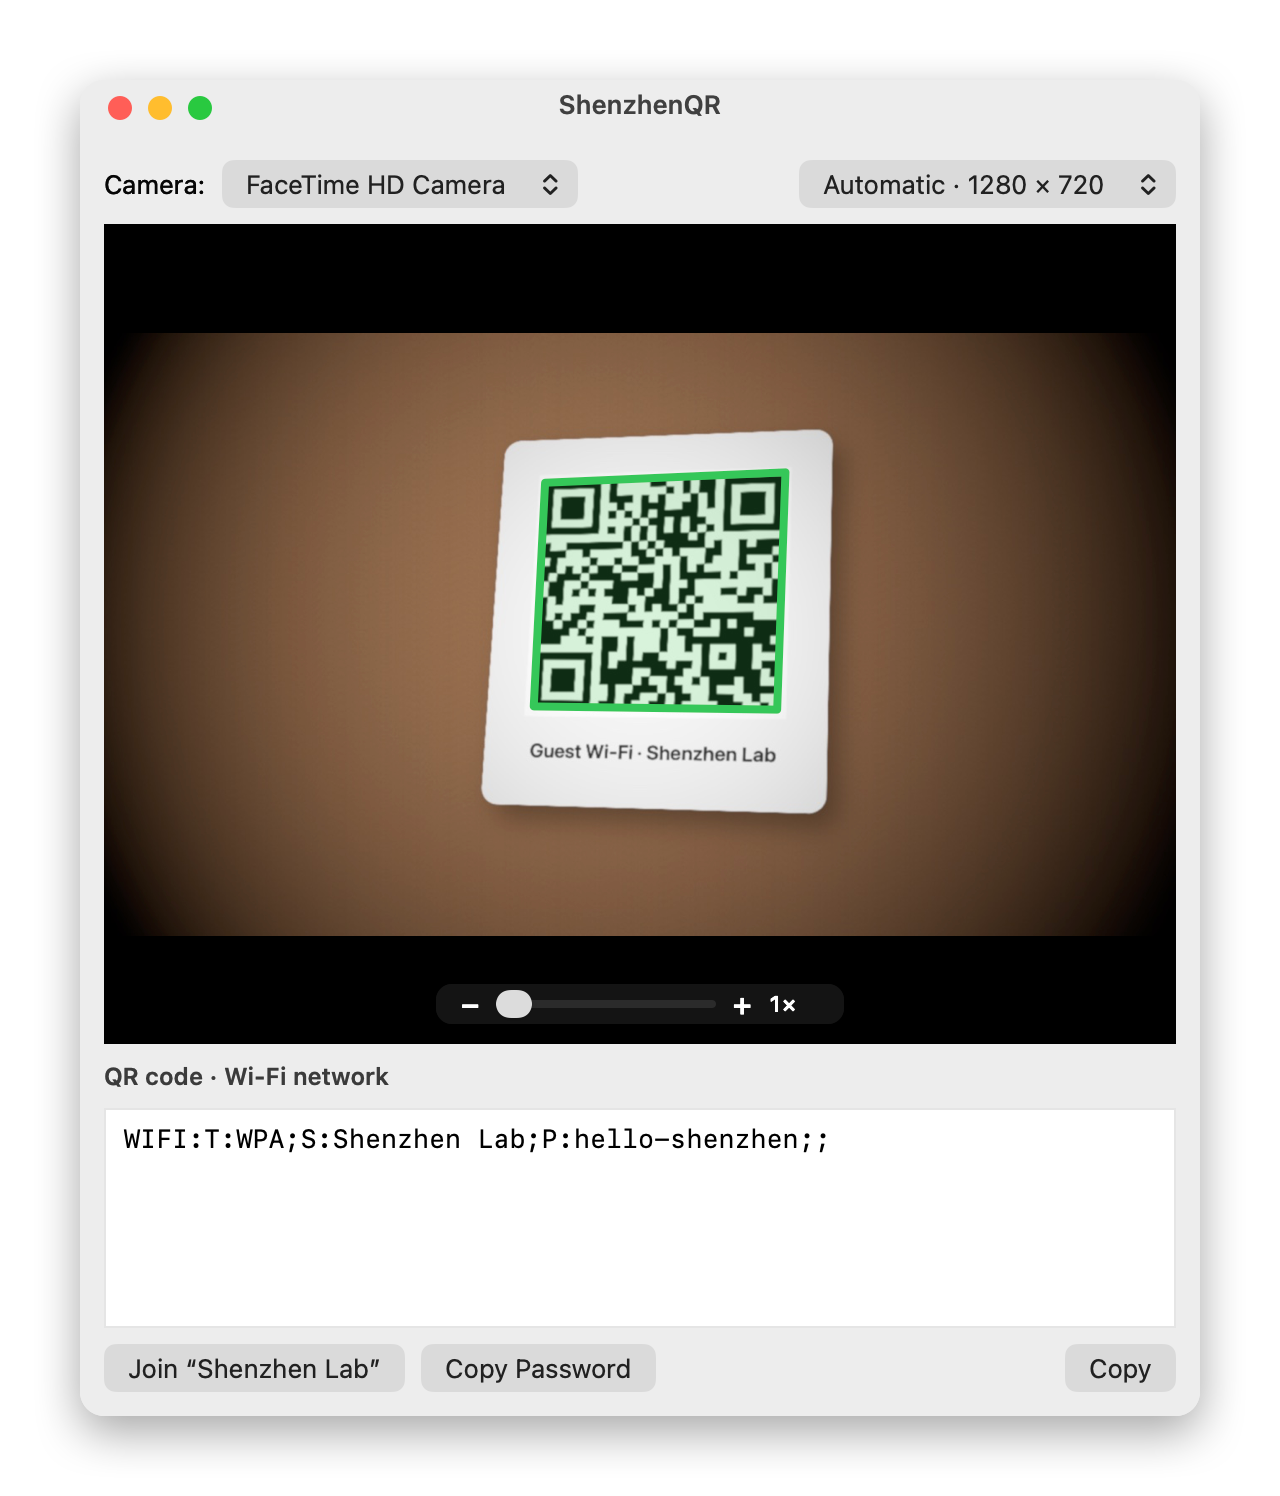
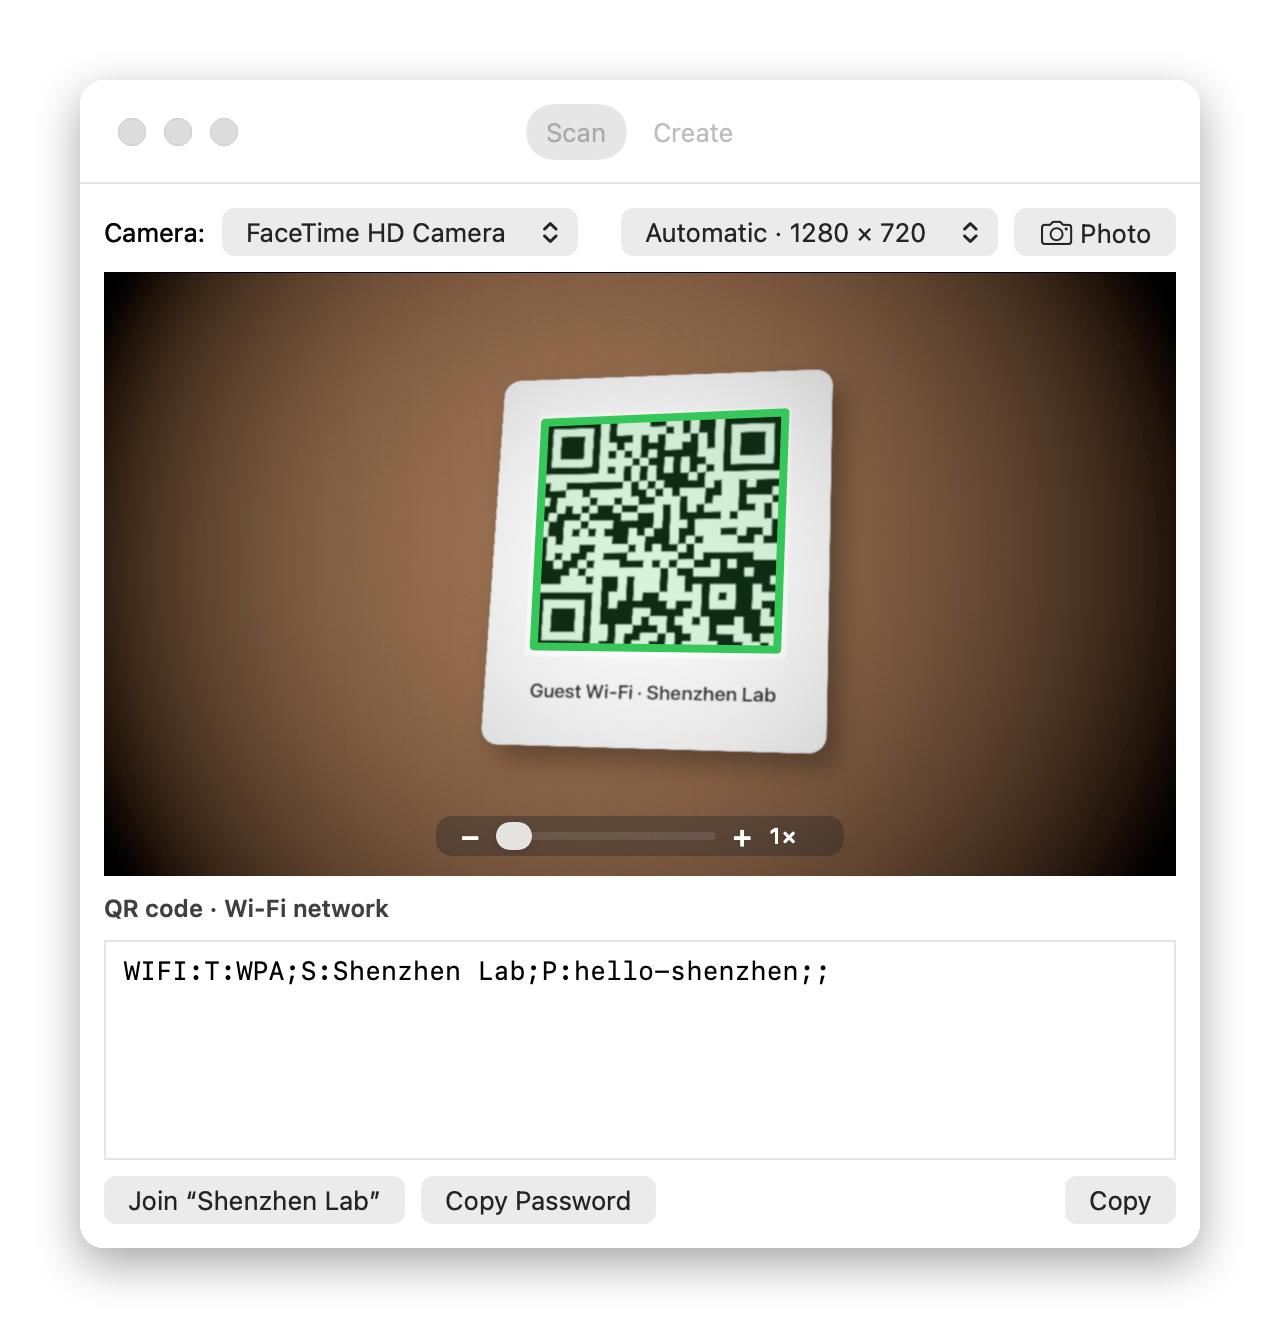
README: Scan, Create and Settings sections, with a Create screenshot
- The screenshots show the whole window, top bar and tabs included, at the height the app gives it for the picture.
- --screenshot create opens Advanced only when asked; the Create preview shrinks to the window.

diff --git a/ShenzhenQR.swift b/ShenzhenQR.swift
@@ -866,8 +866,8 @@ final class AppDelegate: NSObject, NSApplicationDelegate, NSTextViewDelegate, NS
 
     /// The window's height set so the camera picture fills the preview, without black bars; the width and the top
     /// edge stay where they are.
-    func fitToPicture(_ size: CGSize) {
-        guard !offscreen, size.width > 0, !scanView.isHidden, let window, !window.inLiveResize else { return }
+    func fitToPicture(_ size: CGSize, screenshot: Bool = false) {
+        guard !offscreen || screenshot, size.width > 0, !scanView.isHidden, let window, !window.inLiveResize else { return }
         window.contentView?.layoutSubtreeIfNeeded()
         let want = (preview.frame.width * size.height / size.width).rounded()
         let delta = want - preview.frame.height
@@ -919,10 +919,13 @@ final class AppDelegate: NSObject, NSApplicationDelegate, NSTextViewDelegate, NS
         setStatus("")
         let content = window.contentView!
         content.layoutSubtreeIfNeeded()
+        fitToPicture(ci.extent.size, screenshot: true)        // as the app does when the camera starts
+        content.layoutSubtreeIfNeeded()
         preview.layout()
-        content.displayIfNeeded()
-        let rep = content.bitmapImageRepForCachingDisplay(in: content.bounds)!
-        content.cacheDisplay(in: content.bounds, to: rep)
+        let frame = content.superview ?? content          // the whole window, its top bar with the tabs included
+        frame.layoutSubtreeIfNeeded(); frame.displayIfNeeded()
+        let rep = frame.bitmapImageRepForCachingDisplay(in: frame.bounds)!
+        frame.cacheDisplay(in: frame.bounds, to: rep)
         try! rep.representation(using: .png, properties: [:])!.write(to: URL(fileURLWithPath: out))
     }
 
@@ -1899,7 +1902,7 @@ enum CLI {
                 d.buildWindow(); d.window.setContentSize(NSSize(width: 560, height: 640))
                 d.showTab(1)
                 if args.count > 4 {
-                    d.createView.advancedButton.state = .on; d.createView.toggleAdvanced()
+                    if args.count > 6, args[6] == "advanced" { d.createView.advancedButton.state = .on; d.createView.toggleAdvanced() }
                     if let k = CodeKind(rawValue: args[4]) { d.createView.kindMenu.selectItem(at: CodeKind.allCases.firstIndex(of: k)!); d.createView.kindChanged() }
                     if args.count > 5, args[5].hasPrefix("wifi=") {
                         d.createView.contentMode.selectedSegment = 1; d.createView.modeChanged()
@@ -1907,7 +1910,7 @@ enum CLI {
                         d.createView.changed()
                     } else if args.count > 5 { d.createView.textView.string = args[5]; d.createView.changed() }
                 }
-                let view = d.window.contentView!
+                let view = d.window.contentView!.superview ?? d.window.contentView!
                 view.layoutSubtreeIfNeeded(); view.displayIfNeeded()
                 let rep = view.bitmapImageRepForCachingDisplay(in: view.bounds)!
                 view.cacheDisplay(in: view.bounds, to: rep)
@@ -2622,8 +2625,11 @@ final class CreateView: NSView, NSTextViewDelegate, NSTextFieldDelegate {
             basic.widthAnchor.constraint(equalTo: stack.widthAnchor, constant: -24),
             preview.heightAnchor.constraint(greaterThanOrEqualToConstant: 160),
         ])
-        preview.setContentHuggingPriority(.defaultLow, for: .vertical)
-        preview.setContentCompressionResistancePriority(.defaultLow, for: .vertical)
+        // The preview shrinks to the window: left alone it asks for the PNG's full size, which made the window wide.
+        for o in [NSLayoutConstraint.Orientation.horizontal, .vertical] {
+            preview.setContentHuggingPriority(.defaultLow, for: o)
+            preview.setContentCompressionResistancePriority(.init(1), for: o)
+        }
         kindChanged()
     }
     required init?(coder: NSCoder) { fatalError() }

diff --git a/README.md b/README.md
@@ -6,19 +6,30 @@ A tiny Mac app that reads QR codes and barcodes from any camera (the built-in on
 
 Apple Silicon · macOS 14+ · Signed and notarized
 
+## Scan
+
 ![ShenzhenQR reading a Wi-Fi QR code](docs/screenshot.png)
 
-- **Any camera.** Pick it from the menu at the top; ShenzhenQR remembers your choice and notices cameras being plugged in or removed. The menu beside it lists the picture sizes that camera has.
-- **Zoom for small codes.** Double-click the picture to zoom 2.5× into the middle, and again to zoom out, or use the zoom bar at the bottom of the picture. Only the middle is read then, closer up, so smaller codes are found.
-- **Every common code.** QR, Micro QR, Aztec, Data Matrix, PDF417, EAN and UPC, Code 128, 39 and 93, ITF, Codabar and GS1 DataBar.
-- **Photo and text.** **Photo** freezes the picture and reads the text in it, Chinese included: select text right on the photo, as in Preview, or edit all of it in the field below. Codes on the photo are outlined too; click one to put it in the field. **Back to Camera** returns.
-- **Blurred barcodes.** On a photo or a picture, when a barcode's bars are too blurred to read, its number is read from the digits printed under it, and kept only if its check digit is right (dashed outline). A camera can't focus up close: hold the code farther away and zoom in instead.
-- **See where it is.** A green outline marks each code where it was read. With several in view, click one to use it.
-- **Settings** (⌘,): the camera resolution, and how many processor cores read frames at the same time (4 unless you change it).
+- **Any camera.** Pick it from the menu at the top: the built-in one, a USB webcam, a virtual camera or an iPhone. ShenzhenQR remembers your choice and notices cameras being plugged in or removed. The menu beside it lists the picture sizes that camera has, and the window fits the camera's picture.
+- **Every common code.** QR, Micro QR, Aztec, Data Matrix, PDF417, EAN and UPC, Code 128, 39 and 93, ITF, Codabar and GS1 DataBar. A green outline marks each one; with several in view, click one to use it.
 - **The text, ready to use.** What the code holds appears in a field you can select and edit. **Copy** puts it on the clipboard.
 - **The right next step.** Depending on the code: **Join** a Wi-Fi network (or copy its password), **Open in Browser**, **Add to Contacts**, **Add to Calendar**, **Write Email**, **Call**, **Send Message** or **Show in Maps**. Buttons follow your edits.
-- **Make codes.** The **Create** tab at the top makes a QR code, Data Matrix, Aztec code, PDF417, Code 128, EAN-13, UPC-A or EAN-8 as a crisp PNG, saved in Downloads unless you choose another folder. Type and content are all it needs; **Advanced** has error correction, quiet zone, Data Matrix shape, bar height, the digits under EAN and UPC barcodes, colors, a transparent background and the file name, each with the standard value until you change it. For a QR code, **Wi-Fi network** makes a code that phones scan to join a network: type its name and password, or **Use Current Wi-Fi** to take this Mac's (macOS asks for Location, as it counts Wi-Fi names as location, then for your Mac's password before sharing the Wi-Fi password).
-- **Updates.** ShenzhenQR checks for a new version once a day and asks before installing it; **Check for Updates…** in the app menu checks now.
+- **Zoom for small codes.** Double-click the picture to zoom 2.5× into the middle, and again to zoom out, or use the zoom bar at the bottom of the picture. Only the middle is read then, closer up, so smaller codes are found.
+- **Photo and text.** **Photo** freezes the picture and reads the text in it, Chinese included: select text right on the photo, as in Preview, or edit all of it in the field below. Codes on the photo are outlined too; click one to put it in the field.
+- **Blurred barcodes.** On a photo or a picture, when a barcode's bars are too blurred to read, its number is read from the digits printed under it, and kept only if its check digit is right (dashed outline). A camera can't focus up close: hold the code farther away and zoom in instead.
+
+## Create
+
+![ShenzhenQR making a Wi-Fi QR code](docs/screenshot-create.png)
+
+- **Codes as PNG.** A QR code, Data Matrix, Aztec code, PDF417, Code 128, EAN-13, UPC-A or EAN-8, crisp at the width you ask for, saved in Downloads unless you choose another folder. **Copy Image** puts it on the clipboard.
+- **Wi-Fi codes.** For a QR code, **Wi-Fi network** makes a code that phones scan to join a network. Type its name and password, or click **Use Current Wi-Fi** to take this Mac's: macOS asks once for Location, as it counts Wi-Fi names as location, then for your Mac's password before sharing the Wi-Fi password.
+- **Advanced**, closed until you open it: error correction, quiet zone, Data Matrix shape, bar height, the digits under EAN and UPC barcodes, colors, a transparent background and the file name, each at the standard value until you change it.
+
+## Settings and updates
+
+- **Settings** (⌘,): the camera resolution, and how many processor cores read frames at the same time (4 unless you change it).
+- **Updates.** ShenzhenQR checks for a new version once a day and asks before installing it. **Check for Updates…** in the app menu checks now.
 
 ## Install
 
@@ -76,4 +87,4 @@ One Swift file, no dependencies:
 ./build.sh --release  # Developer ID signature, notarized app and disk image
 ```
 
-`make-icon.swift` draws the icon; `ShenzhenQR --screenshot <out.png> <picture>` draws the screenshot above.
+`make-icon.swift` draws the icon. `ShenzhenQR --screenshot <out.png> <picture>` draws the Scan screenshot above, from a picture standing in for the camera; `ShenzhenQR --screenshot <out.png> create qr "wifi=<network>"` draws the Create one.
